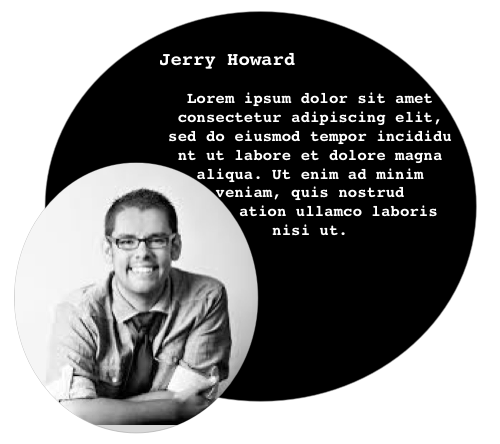
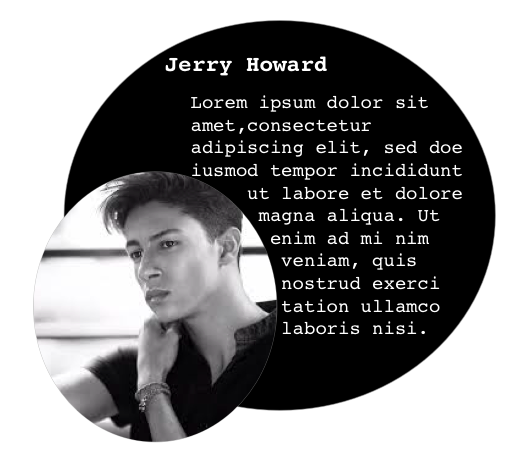
people page

diff --git a/people.html b/people.html
@@ -105,7 +105,7 @@ footer {
       <p><a href="#"><font color="black">read more</a></p>
     </div>
     <div class="img-container">
-      <img src="mary3.png" style="width:450px;height:400px;">
+      <img src="mary.png" style="width:450px;height:400px;">
       <p> Marilyn Johnson</p>
       <p><a href="#"><font color="black">read more</a></p>
     </div>

diff --git a/BWB.html b/BWB.html
@@ -11,7 +11,7 @@
 
 body {
     margin: 0;
-    font-family: Arial;
+    font-family: Courier;
 }
 
 .header {
